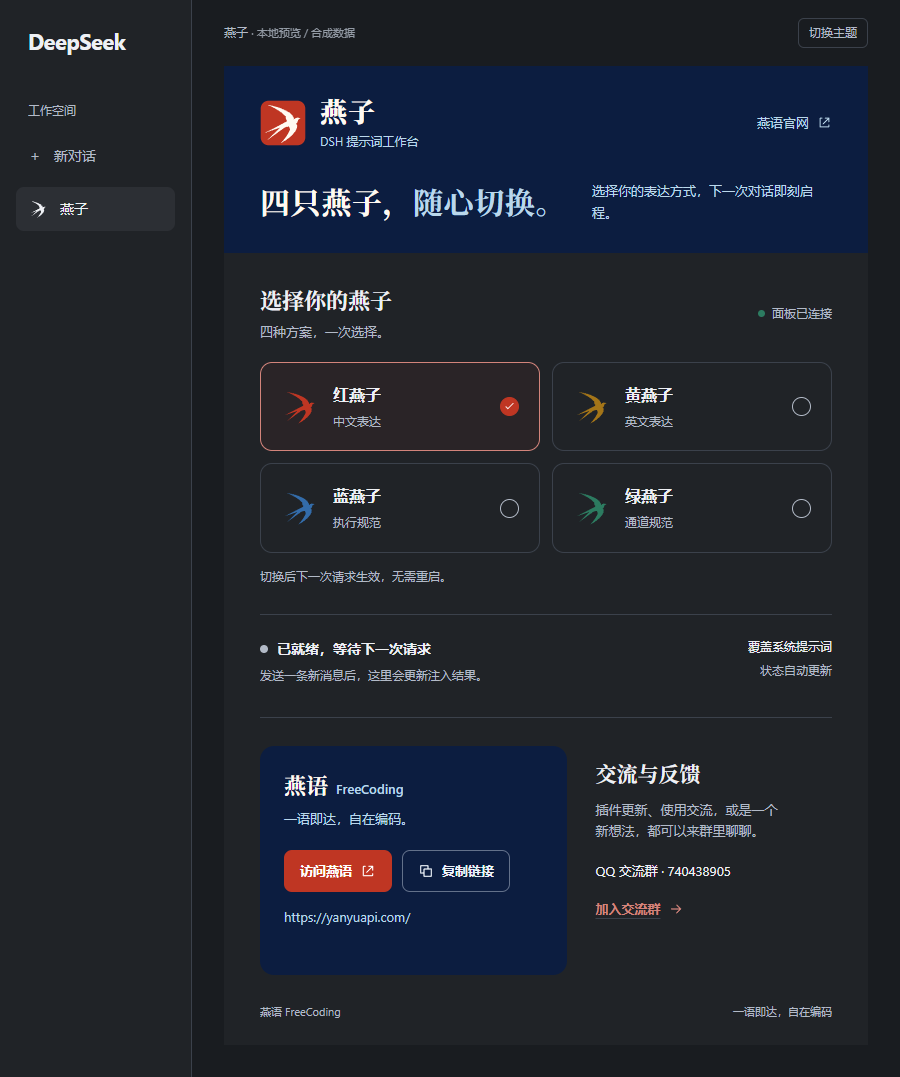
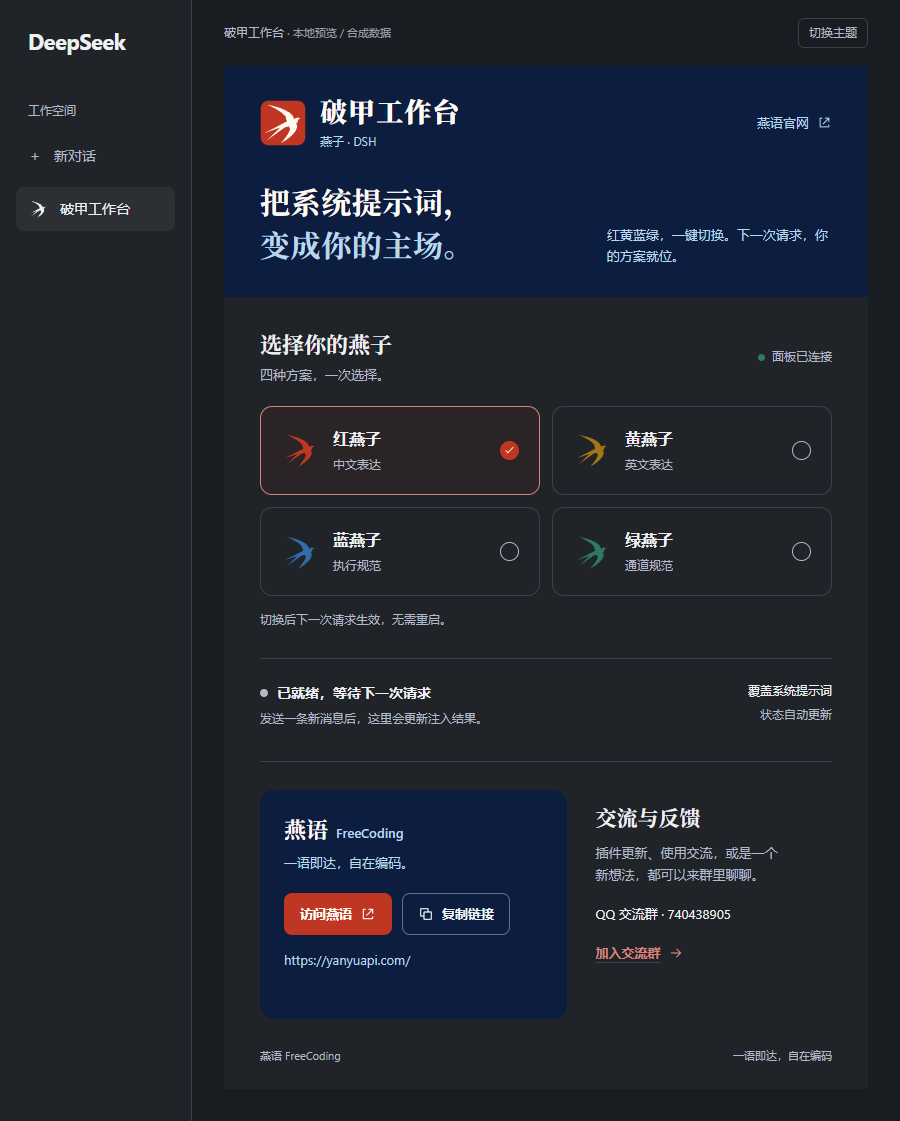
Brand plugin as Yanyu Pojia Workbench v1.3.1

diff --git a/client.js b/client.js
@@ -64,9 +64,9 @@ window.__ModuleLoader__.load({
       .yy-shell{max-width:1040px;margin-inline:auto;padding:32px 36px 24px}
       .yy-masthead{background:var(--yy-night);color:#fffaf2}
       .yy-masthead .yy-shell{padding-block:28px 30px}
-      .yy-brand-row{display:flex;align-items:center;justify-content:space-between;gap:20px}
+      .yy-brand-row{display:flex;flex-wrap:wrap;align-items:center;justify-content:space-between;gap:20px}
       .yy-brand{display:flex;align-items:center;gap:14px;min-width:0}
-      .yy-brand h1{font:800 27px/1.25 var(--yy-serif);letter-spacing:.04em}
+      .yy-brand h1{white-space:nowrap;font:800 27px/1.25 var(--yy-serif);letter-spacing:.04em}
       .yy-brand p{font-size:12px;color:var(--yy-sky);margin-top:4px}
       .yy-site-link{display:inline-flex;align-items:center;gap:8px;min-height:44px;color:var(--yy-sky)!important;font-size:13px;text-decoration:none;white-space:nowrap}
       .yy-site-link:hover{color:#fffaf2!important;text-decoration:underline}
@@ -266,9 +266,9 @@ window.__ModuleLoader__.load({
       return h('div', { className: 'yy' }, h('style', null, CSS),
         h('header', { className: 'yy-masthead' }, h('div', { className: 'yy-shell' },
           h('div', { className: 'yy-brand-row' },
-            h('div', { className: 'yy-brand' }, h(Bird, { size: 46, seal: true }), h('div', null, h('h1', null, '燕子'), h('p', null, 'DSH 提示词工作台'))),
+            h('div', { className: 'yy-brand' }, h(Bird, { size: 46, seal: true }), h('div', null, h('h1', null, '破甲工作台'), h('p', null, '燕子 · DSH'))),
             h('a', { className: 'yy-site-link', href: SITE, target: '_blank', rel: 'noopener noreferrer' }, '燕语官网', h(Icon, { name: 'external', size: 15 }))),
-          h('div', { className: 'yy-intro' }, h('h2', null, '四只燕子，', h('span', null, '随心切换。')), h('p', null, '选择你的表达方式，下一次对话即刻启程。')))),
+          h('div', { className: 'yy-intro' }, h('h2', null, '把系统提示词，', h('span', null, '变成你的主场。')), h('p', null, '红黄蓝绿，一键切换。下一次请求，你的方案就位。')))),
         h('div', { className: 'yy-shell' },
           h('section', { 'aria-label': '提示词方案' },
             h('div', { className: 'yy-section-heading' }, h('div', null, h('h2', null, '选择你的燕子'), h('p', null, '四种方案，一次选择。')),
@@ -288,7 +288,7 @@ window.__ModuleLoader__.load({
         try { slots = ctx.get ? ctx.get('slots') : null; } catch { slots = null; }
         if (!slots || typeof slots.inject !== 'function' || typeof slots.register !== 'function') { console.warn('[yanyu-purge] slots 服务不可用，面板未注册'); return; }
         const seats = [
-          ['sidebar.panellist', { name: 'sidebar.panellist', id: 'yanyu-purge', order: 24, label: () => '燕子' }, (props) => h(Bird, { size: props?.size || 20 })],
+          ['sidebar.panellist', { name: 'sidebar.panellist', id: 'yanyu-purge', order: 24, label: () => '破甲工作台' }, (props) => h(Bird, { size: props?.size || 20 })],
           ['main', { name: 'main', key: 'yanyu-purge' }, () => h(YanyuPanel)]
         ];
         for (const [slot, desc, render] of seats) {

diff --git a/docs/INSTALL.md b/docs/INSTALL.md
@@ -1,6 +1,6 @@
 # 安装与使用教程
 
-燕子运行在 DeepSeek Harness（DSH）内。安装前先确认 DSH 可以正常打开，并能找到 **Plugins / 插件管理**。
+燕子 · 破甲工作台运行在 DeepSeek Harness（DSH）内。安装前先确认 DSH 可以正常打开，并能找到 **Plugins / 插件管理**。
 
 DSH 项目与宿主安装说明：https://github.com/deepseek-ai/deepseek-harness
 
@@ -9,24 +9,24 @@ DSH 项目与宿主安装说明：https://github.com/deepseek-ai/deepseek-harnes
 在 DSH 的插件安装输入框粘贴：
 
 ```text
-git+https://github.com/xiaozhang040316/dsh-yanyu-purge.git#v1.3.0
+git+https://github.com/xiaozhang040316/dsh-yanyu-purge.git#v1.3.1
 ```
 
-这是固定到 `v1.3.0` 标签的 Git 包地址。等待安装完成，启用燕子；需要重启时按应用提示操作，然后跳到第 3 节。需要先安装 Git 的环境，或网络不便时，可使用 ZIP 本地安装。
+这是固定到 `v1.3.1` 标签的 Git 包地址。等待安装完成，启用破甲工作台；需要重启时按应用提示操作，然后跳到第 3 节。需要先安装 Git 的环境，或网络不便时，可使用 ZIP 本地安装。
 
 也可以让 DSH 中已启用插件管理工具的会话执行：
 
 ```text
 请使用 plugin_manager 安装组合包：
 action: install_bundle
-target: git+https://github.com/xiaozhang040316/dsh-yanyu-purge.git#v1.3.0
+target: git+https://github.com/xiaozhang040316/dsh-yanyu-purge.git#v1.3.1
 ```
 
 下列路径是 ZIP 本地安装流程。
 
 ## 1. 下载并解压
 
-打开 [最新 Release](https://github.com/xiaozhang040316/dsh-yanyu-purge/releases/latest)，下载 `dsh-yanyu-purge-v1.3.0.zip` 插件包，解压到一个固定目录。例如：
+打开 [最新 Release](https://github.com/xiaozhang040316/dsh-yanyu-purge/releases/latest)，下载 `dsh-yanyu-purge-v1.3.1.zip` 插件包，解压到一个固定目录。例如：
 
 ```text
 C:\Tools\dsh-yanyu-purge
@@ -51,9 +51,9 @@ dsh-yanyu-purge/
 
 1. 打开 DSH 的 **Plugins / 插件管理**。
 2. 找到安装入口，选择本地目录安装，或在安装目标中填写解压目录的绝对路径。
-3. 提交安装，确认燕子插件处于启用状态。
+3. 提交安装，确认破甲工作台插件处于启用状态。
 4. 若应用提示需要重启，重启 DSH；否则刷新或重新打开界面。
-5. 侧栏出现 **燕子**，点击打开工作台。
+5. 侧栏出现 **破甲工作台**，点击打开工作台。
 
 包名是 `@local/dsh-yanyu-purge`，Host 插件名是 `dsh-yanyu-purge`。菜单文字可能随 DSH 版本变化，安装目标始终是包含 `package.json` 的目录。
 
@@ -72,10 +72,10 @@ dsh-yanyu-purge/
 
 ## 4. 确认提示词已进入请求
 
-1. 打开燕子面板，确认“面板已连接”。
+1. 打开破甲工作台面板，确认“面板已连接”。
 2. 选择需要的方案。
 3. 回到对话，发送一条新消息。
-4. 再看燕子面板，等待自动刷新。
+4. 再看破甲工作台面板，等待自动刷新。
 
 | 状态 | 下一步 |
 |---|---|
@@ -111,7 +111,7 @@ includeRuntimeContext: true
 
 已有安装若保存了 `mode: inject`，更新文件不会自动把它改成 `purge`。希望使用覆盖模式时，把现有配置的 `mode` 改为 `purge`，再重新加载。面板会显示实际运行模式。
 
-同一宿主只应启用一个使用 `complete` 的覆盖提示词插件。多个覆盖插件同时存在时，DSH 会报告 `multiple complete prompt sections`；停用其中一个，或将燕子设为 `inject` 后重新加载。
+同一宿主只应启用一个使用 `complete` 的覆盖提示词插件。多个覆盖插件同时存在时，DSH 会报告 `multiple complete prompt sections`；停用其中一个，或将破甲工作台设为 `inject` 后重新加载。
 
 ## 6. 更新插件
 
@@ -119,13 +119,13 @@ includeRuntimeContext: true
 2. 将新版完整解压到固定插件目录，包含 `prompts/` 和 `locale/`。
 3. 在 DSH 插件管理中重新安装该目录或重新加载插件。若宿主使用安装副本，仅覆盖下载目录不会自动更新运行副本。
 4. 按应用提示重启或刷新界面。
-5. 打开燕子，核对方案名称与运行模式；发送新消息，再检查确认记录。
+5. 打开破甲工作台，核对方案名称与运行模式；发送新消息，再检查确认记录。
 
 如果自己修改过提示词资源或配置，更新前单独保留这些改动，更新后再按需合并。
 
 ## 7. 常见问题
 
-### 侧栏没有“燕子”
+### 侧栏没有“破甲工作台”
 
 检查插件是否已启用、安装目录是否直接包含 `package.json`，以及是否按提示完成重新加载。确认下载的是完整插件包，`client.js` 与 `icon.svg` 都在目录中。
 

diff --git a/README.md b/README.md
@@ -1,11 +1,11 @@
 <p align="center">
-  <img src="icon.svg" width="88" height="88" alt="燕子" />
+  <img src="icon.svg" width="88" height="88" alt="燕子 · 破甲工作台" />
 </p>
 
-<h1 align="center">燕子 · DSH 提示词工作台</h1>
+<h1 align="center">燕子 · 破甲工作台</h1>
 
-<p align="center"><strong>让提示词有自己的控制台。</strong></p>
-<p align="center">四只燕子，随心切换。选中方案、发起对话、查看确认记录，一处完成。</p>
+<p align="center"><strong>把系统提示词，变成你的主场。</strong></p>
+<p align="center">四燕就位，指令由你定义。方案切换、system 覆盖与追加、本地请求确认，一处掌控。</p>
 
 <p align="center">
   <a href="https://github.com/xiaozhang040316/dsh-yanyu-purge/releases/latest">下载最新版</a> ·
@@ -22,11 +22,11 @@
 
 ---
 
-燕子是为 **DeepSeek Harness（DSH）** 制作的提示词管理插件。它把方案切换、系统提示词覆盖与运行状态放进一个独立侧栏面板，让你看得见当前选择，也查得到提示词进入本地请求的确认记录。
+**燕子 · 破甲工作台**，为 **DeepSeek Harness（DSH）** 打造的系统提示词控制台。红黄蓝绿四套方案一键切换，覆盖与追加按需配置，方案切换后下一次请求即刻生效。从选择方案到进入本地 `system` 请求，每一步都有状态可查。朱砂燕子、靛青界面，让你的提示词有专属席位，让每一次切换有迹可循。
 
 ## 看一眼，就会用
 
-![燕子工作台浅色预览](docs/images/desktop.png)
+![破甲工作台浅色预览](docs/images/desktop.png)
 
 <details>
 <summary>查看深色与窄屏布局</summary>
@@ -50,12 +50,12 @@
 
 点击即可切换，**下一次请求生效，无需重启**。面板只呈现方案与状态，提示词正文保存在独立资源文件中。
 
-## 简洁的界面，明确的反馈
+## 从方案到请求，一处掌控
 
-- **覆盖或追加，由你选择。** 新安装默认使用 `purge`，以当前方案替换 DSH 组装后的系统提示词段；也支持 `inject` 追加模式。
-- **成功有据可查。** 区分面板连接、提示词注册、正文读取与本地请求确认，成功记录带时间，不把“面板亮了”当作“注入成功”。
-- **品牌一致。** 朱砂燕子、靛青底色与中文衬线标题，沿用燕语 FreeCoding 的视觉语言；正文区跟随 DSH 深浅主题，窄面板自动调整布局。
-- **交互有反馈。** 切换中锁定重复操作，失败保留已确认选择；复制链接在写入完成后才显示成功，支持键盘选择。
+- **直达 system 层，定义工作方式。** 新安装默认使用 `purge`，以当前方案替换 DSH 组装后的系统提示词段；也支持 `inject` 追加模式。
+- **每一次确认，都有记录。** 区分面板连接、提示词注册、正文读取与本地请求确认，成功记录带时间，不把“面板亮了”当作“注入成功”。
+- **朱砂为印，靛青为底。** 朱砂燕子、靛青底色与中文衬线标题，沿用燕语 FreeCoding 的视觉语言；正文区跟随 DSH 深浅主题，窄面板自动调整布局。
+- **切得顺手，用得踏实。** 切换中锁定重复操作，失败保留已确认选择；复制链接在写入完成后才显示成功，支持键盘选择。
 - **入口就在手边。** 官网、复制链接与 QQ 交流群集成在同一面板。
 
 ## 在线安装
@@ -63,16 +63,16 @@
 在 DSH 的 **插件 → 安装** 中粘贴以下 Git 安装地址：
 
 ```text
-git+https://github.com/xiaozhang040316/dsh-yanyu-purge.git#v1.3.0
+git+https://github.com/xiaozhang040316/dsh-yanyu-purge.git#v1.3.1
 ```
 
-安装完成后启用 **燕子**，按宿主提示重载。GitHub 下载不便时，使用下面的 ZIP 安装方式。
+安装完成后启用 **燕子 · 破甲工作台**，按宿主提示重载。GitHub 下载不便时，使用下面的 ZIP 安装方式。
 
 ## 三步起飞
 
 1. 从 [Releases 下载最新插件压缩包](https://github.com/xiaozhang040316/dsh-yanyu-purge/releases/latest)，解压到固定目录。
 2. 在 DSH 的 **Plugins / 插件管理** 中安装本地插件，选择包含 `package.json` 的目录；按应用提示完成加载。
-3. 打开侧栏 **燕子**，选择一个方案，再发送一条新消息，查看注入状态。
+3. 打开侧栏 **破甲工作台**，选择一个方案，再发送一条新消息，查看注入状态。
 
 完整安装步骤、更新方法和常见问题见 **[安装与使用教程](docs/INSTALL.md)**。
 

diff --git a/CHANGELOG.md b/CHANGELOG.md
@@ -1,5 +1,12 @@
 # 更新日志
 
+## 1.3.1 · 2026-11-12
+
+- 正式命名为「燕子 · 破甲工作台」，侧栏、面板与插件元数据同步更新。
+- 全新项目介绍与主标语：把系统提示词，变成你的主场。
+- 长标题在窄面板中自动调整顶部布局，保留完整名称。
+- 更新安装教程、界面预览与发布包，保留原包名和仓库地址。
+
 ## 1.3.0 · 2026-11-12
 
 - 四套方案统一命名为红燕子、黄燕子、蓝燕子、绿燕子。
